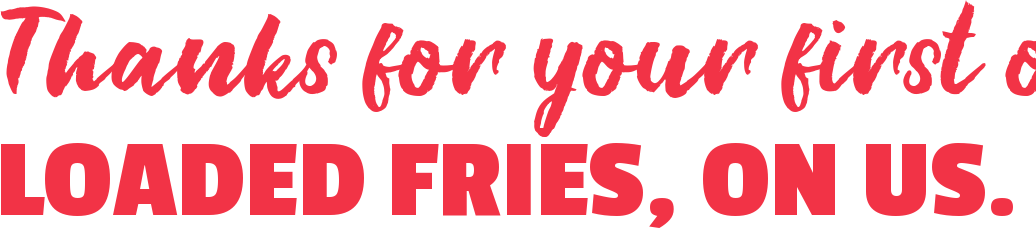
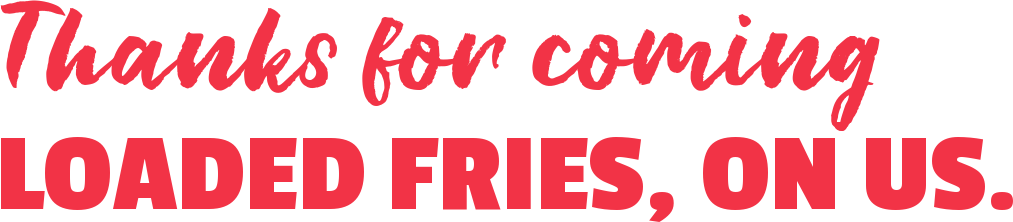
Tunnel E2: shorter script line so it fits
Claude-Session: https://claude.ai/code/session_01GYxQg47SgkWvXTb2iUprmt

diff --git a/tunnel-nov-2026/e2-loaded.html b/tunnel-nov-2026/e2-loaded.html
@@ -83,7 +83,7 @@ a { text-decoration:none; }
 <tr><td class="px" bgcolor="#FFCE27" style="background-color:#FFCE27;background-image:linear-gradient(#FFCE27,#FFCE27);padding:0 20px 8px 20px;">
 <table role="presentation" width="100%" cellpadding="0" cellspacing="0" border="0"><tr>
 <td class="d-card cardpad" bgcolor="#FFFFFF" style="background-color:#FFFFFF;border-radius:24px;padding:30px 26px 26px 26px;">
-<img src="https://raw.githubusercontent.com/yaniiszigheche-pixel/BIMS-EMAIL-/main/tunnel-nov-2026/e2-loaded-header.png" width="520" alt="Thanks for your first order. LOADED FRIES, ON US." style="display:block;width:100%;max-width:520px;height:auto;margin:0 0 18px 0;">
+<img src="https://raw.githubusercontent.com/yaniiszigheche-pixel/BIMS-EMAIL-/main/tunnel-nov-2026/e2-loaded-header.png" width="520" alt="Thanks for coming. LOADED FRIES, ON US." style="display:block;width:100%;max-width:520px;height:auto;margin:0 0 18px 0;">
 <p class="d-text" style="margin:0 0 14px 0;font-family:Poppins,'Segoe UI',Arial,Helvetica,sans-serif;font-size:16px;line-height:25px;color:#141414;">Spicy fries, crispy chicken tender and our Algerian sauce. Your next portion is free.</p><p class="d-text" style="margin:0 0 14px 0;font-family:Poppins,'Segoe UI',Arial,Helvetica,sans-serif;font-size:16px;line-height:25px;color:#141414;">It&#x27;s waiting in your app for 7 days. After that, it&#x27;s gone.</p>
 <table role="presentation" width="100%" cellpadding="0" cellspacing="0" border="0" style="margin-top:8px;border-collapse:separate;"><tr><td class="d-pill" bgcolor="#F2F2F2" style="background-color:#F2F2F2;border-radius:14px;padding:11px 14px;">
 <table role="presentation" width="100%" cellpadding="0" cellspacing="0" border="0"><tr>
